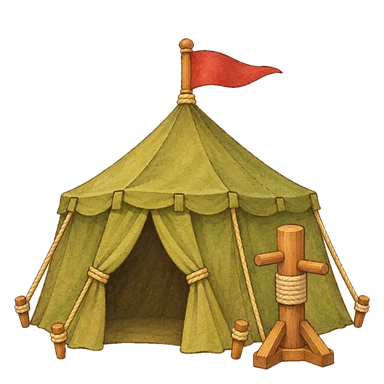
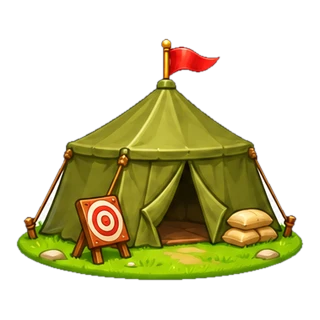
전투 화면 기호와 주둔지 건물 5채를 상점과 같은 그림체로
- 기호: 단계 깃발 · 메뉴 · 임무 · 도감 · 나가기 · 공격 · 사거리 (img/ic)
- 건물: img/bld_*.webp 다시 그림

Claude-Session: https://claude.ai/code/session_017VP8BVWohypkUvNmKY1rp7

diff --git a/www/js/icons.js b/www/js/icons.js
@@ -33,8 +33,9 @@ export const ICON = {
   shop: '<svg viewBox="0 0 24 24"><path d="M4 9l1.5-5h13L20 9M5 9v11h14V9M4 9h16" fill="none" stroke="currentColor" stroke-width="2.3" stroke-linejoin="round"/><path d="M10 20v-6h4v6" fill="none" stroke="currentColor" stroke-width="2.3"/></svg>',
 };
 // 재화 기호는 그림 파일(img/ic/<이름>.webp, 상점과 같은 그림체)로 보여 준다. 그림을 못 읽으면 위의 SVG로 돌아간다
-const PIC = ['gem', 'coin', 'box', 'ticket', 'bolt', 'medal'];
-const body = name => (PIC.includes(name) ? `<img src="img/ic/${name}.webp" alt="" onerror="this.outerHTML=window.__icSvg('${name}')">` : ICON[name] || '');
+const PIC = { gem: 'gem', coin: 'coin', box: 'box', ticket: 'ticket', bolt: 'bolt', medal: 'medal',      // 재화
+  flag: 'flag', menu: 'menu', list: 'mission', book: 'book', exit: 'exit', sword: 'sword', ring: 'target', help: 'help', sound: 'sound' };      // 전투 화면 · 메뉴 (기호 이름 → 그림 파일)
+const body = name => (PIC[name] ? `<img src="img/ic/${PIC[name]}.webp" alt="" onerror="this.outerHTML=window.__icSvg('${name}')">` : ICON[name] || '');
 if (typeof window !== 'undefined') window.__icSvg = n => ICON[n] || '';
 export const ic = (name, cls = '') => `<span class="ic ${cls}">${body(name)}</span>`;
 export function fillIcons(root = document) { root.querySelectorAll('[data-ic]').forEach(e => { e.classList.add('ic'); e.innerHTML = body(e.dataset.ic); }); }

diff --git a/www/style.css b/www/style.css
@@ -374,4 +374,6 @@ img.u { filter: var(--skin, none); }
 .ltop .hbtn .pic { width: 3rem; height: 3rem; } .ltop .hbtn.off { background: var(--paper); }
 .lcoop .pic { width: 4.6rem; height: 4.6rem; } .subbar .pic { width: 2.6rem; height: 2.6rem; margin-right: 0.2rem; }
 @media (max-height: 480px) { .nav5 .pic { width: 2.8rem; height: 2.8rem; } .nav5 button.on .pic { width: 3.2rem; height: 3.2rem; margin-top: -0.4rem; } }
+/* 전투 화면의 그림 기호: 단계 깃발 · 메뉴 · 임무 버튼은 조금 크게 */
+.area > .ic { font-size: 2.8rem; } #b-menu .ic { font-size: 2.5rem; } #actions .board .ic { font-size: 2rem; } .wide .ic { font-size: 2.4rem; }
 

diff --git a/art/icons/jobs.py b/art/icons/jobs.py
@@ -1,5 +1,5 @@
 """표창 아이콘 18종 · 재화 기호 · 대기실 버튼 그림 (E 광택 캐주얼풍, 상점 그림과 같은 그림체). 한 장에 12개(4칸 × 3줄).
-사용: python3 art/icons/jobs.py && python3 tools/codex_art.py 2 99 art/icons/jobs.json  →  art/icons/raw/sheet_<cm|misc|ui>.png
+사용: python3 art/icons/jobs.py && python3 tools/codex_art.py 2 99 art/icons/jobs.json  →  art/icons/raw/sheet_<cm|misc|ui|battle>.png
 게임에 넣기: python3 art/icons/apply.py"""
 import json, os
 HERE = os.path.dirname(os.path.abspath(__file__))
@@ -28,7 +28,15 @@ UI = ("These are menu button icons for a cute animal army game. Row 1, left to r
       "(7) three face-down cards fanned out, with olive-green backs and a gold star on each back; (8) an orange megaphone speaker with three blue sound waves coming out. "
       "Row 3, left to right: (9) a small camouflage uniform jacket hanging on a wooden clothes hanger; (10) an open training manual book with a big green upward arrow rising from it; "
       "(11) a dark iron blacksmith anvil with a golden hammer above it and orange sparks; (12) an orange megaphone speaker with a red diagonal cross over it, no sound waves.")
-jobs = [{'file': 'art/icons/raw/sheet_ui.png', 'w': 1536, 'h': 1024, 'prompt': HEAD + UI},
+BATTLE = ("These are battle screen icons and small buildings for a cute animal army game. Row 1, left to right: (1) a red triangular flag on a golden pole; (2) a shiny golden gear cog; "
+          "(3) an open wooden door with a green arrow pointing out of it; (4) a round red button with a white cross mark on it. "
+          "Row 2, the first four of five small cute buildings, each seen from the front at a slight angle, each standing on a small round patch of grass: (5) an olive-green army training tent with a small red flag on top; "
+          "(6) a small brick blacksmith workshop with a smoking chimney and an anvil in front; (7) a headquarters house with white walls, a red tiled roof, a golden bell above the door and a green flag; "
+          "(8) a supply depot market stall with an olive canopy, wooden crates, barrels and sacks. "
+          "Row 3, left to right: (9) a tall steel radio tower with an antenna on top and a small blinking red light, standing on a small round patch of grass; (10) one silver sword with a golden hilt pointing up; "
+          "(11) a round red and white target with a crosshair; (12) a thick closed brown leather book with a golden star on the cover and a red bookmark.")
+jobs = [{'file': 'art/icons/raw/sheet_battle.png', 'w': 1536, 'h': 1024, 'prompt': HEAD + BATTLE},
+        {'file': 'art/icons/raw/sheet_ui.png', 'w': 1536, 'h': 1024, 'prompt': HEAD + UI},
         {'file': 'art/icons/raw/sheet_cm.png', 'w': 1536, 'h': 1024, 'prompt': HEAD + CM},
         {'file': 'art/icons/raw/sheet_misc.png', 'w': 1536, 'h': 1024, 'prompt': HEAD + MISC}]
 json.dump(jobs, open(HERE + '/jobs.json', 'w'), ensure_ascii=False, indent=1); print(len(jobs), '장')

diff --git a/art/icons/apply.py b/art/icons/apply.py
@@ -1,4 +1,4 @@
-"""art/icons/raw 의 시트 3장을 잘라 게임에 넣는다: 표창 아이콘 18종 → www/img/cm, 재화 기호 · 대기실 버튼 · 하단 탭 · 메뉴 그림 → www/img/ic.
+"""art/icons/raw 의 시트 4장을 잘라 게임에 넣는다: 표창 아이콘 18종 → www/img/cm, 재화 기호 · 대기실 버튼 · 하단 탭 · 메뉴 · 전투 화면 기호 → www/img/ic, 주둔지 건물 → www/img/bld_*.webp.
 사용: python3 art/icons/apply.py"""
 import os, subprocess, sys
 from PIL import Image
@@ -7,6 +7,8 @@ cut('art/icons/raw/sheet_cm.png', 'www/img/cm', 'summon,luck,tile,depot,supply,e
 cut('art/icons/raw/sheet_misc.png', 'www/img/cm', 'b_army,b_navy,b_marine,b_sf,b_air,b_police,-,-,-,-,-,-', '192')
 cut('art/icons/raw/sheet_misc.png', 'www/img/ic', '-,-,-,-,-,-,gem,coin,box,mission,trophy,record', '160')
 cut('art/icons/raw/sheet_ui.png', 'www/img/ic', 'help,coop,nav_shop,nav_unit,nav_battle,nav_cm,nav_draw,sound,skin,mastery,upgrade,mute', '192')
+cut('art/icons/raw/sheet_battle.png', 'www/img/ic', 'flag,menu,exit,close,-,-,-,-,-,sword,target,book', '192')
+cut('art/icons/raw/sheet_battle.png', 'www/img', '-,-,-,-,bld_camp,bld_up,bld_summon,bld_pick,bld_elite,-,-,-', '320')      # 주둔지 건물 5채
 for src, dst in [('ticket1', 'ticket'), ('bolt1', 'bolt'), ('medal', 'medal')]:      # 상점 그림에서 가져오는 기호
     Image.open(os.path.join(ROOT, 'www/img/shop', src + '.webp')).resize((160, 160), Image.LANCZOS).save(os.path.join(ROOT, 'www/img/ic', dst + '.webp'), quality=90)
 print('끝')

diff --git a/docs/HANDOFF.md b/docs/HANDOFF.md
@@ -8,6 +8,14 @@
 > **게임 이름은 "털뭉치수비대"(붙여 쓴다)**, 아이콘은 시안 C(물개·강아지·참수리) — 2026-11-20 사용자 결정. 저장소 이름·앱 ID(`com.steey.soldierdefense`)·서버 이름·Notion 문서 제목은 옛 이름 그대로 둔다.
 > **세계관**: 털뭉치 마을을 동물 병사들이 고철 군단(기계)으로부터 지킨다. **군별 이름은 육군·해군·해병대·특공대·공군·의경 그대로 쓴다**(사용자: "땅개 부대·백호 부대 말고 육군·특공대 이렇게"). 캐릭터 동물은 육군 = 땅개(강아지)·해군 = 물개·해병대 = 악어·특공대 = 백호·공군 = 보라매·의경 = 참수리(`data.js`의 `animal`, 그림용). **계급과 병과 이름도 그대로 둔다**(사용자 지시). 이름 대응표는 `docs/DESIGN.md` 맨 아래.
 
+## 2026-11-20 — 전투 화면 기호와 주둔지 건물 5채도 E풍 그림으로
+**경위**: 사용자 — "전투 화면 안에도 바꿔 줘".
+**직접 한 작업**: Codex 1장(`art/icons/raw/sheet_battle.png`) → `python3 art/icons/apply.py`.
+- **기호**(`www/img/ic/`: flag · menu · exit · sword · target · book, close는 아직 안 씀): 위쪽 단계 깃발, 메뉴(톱니), 임무 버튼(점검표), 일시정지 화면의 임무·조합 도감·게임 방법·소리·저장하고 나가기, 유닛 카드의 공격·사거리·재화 표시. `icons.js`의 `PIC`가 기호 이름 → 그림 파일을 잇는다(못 읽으면 예전 SVG).
+- **주둔지 건물 5채**(`www/img/bld_*.webp`, 320px): 훈련소 천막 · 병기창 대장간 · 본부 · 보급창 · 통신탑을 E풍으로 다시 그려 덮어썼다(예전 수채 그림은 git 기록에 있다).
+**검사**: 두 화면 크기에서 위쪽 기호 4 · 임무 버튼 1 · 건물 5 · 유닛 카드 기호 · 일시정지 화면 기호가 모두 뜨고 못 읽은 그림 0, 콘솔 오류 0. `npm test` 통과, 화면 검사 문제 기기 0(카드가 전장을 가리지 않는 것 포함).
+**남은 한계**: 실제 기기 미확인. 전장 안(발판·길·유닛·적·특수 발판 표시·총알)은 캔버스에 그리는 예전 수채 그림체 그대로라 건물·기호와 그림체가 다르다 — 유닛을 동물로 다시 그릴 때 전장 그림체도 함께 정해야 한다. 배속(×1)·닫기(×)·재생(▶)·조합 미리보기의 +·→ 는 글자/단색 기호 그대로다.
+
 ## 2026-11-20 — 게임 방법 · 2인 협동 · 하단 탭 · 소리 · 부대 하위 메뉴도 E풍 그림으로
 **경위**: 사용자 — "게임 방법, 2인 협동, 하단 탭도 E풍으로 맞춰 줘".
 **직접 한 작업**: Codex 1장(`art/icons/raw/sheet_ui.png`, 12개) → `python3 art/icons/apply.py` → `www/img/ic/`에 help · coop · nav_shop · nav_unit · nav_battle · nav_cm · nav_draw · sound · mute · skin · mastery · upgrade. 쓰는 곳: 대기실 게임 방법 버튼 · 2인 협동 버튼 · 소리 버튼(켜짐/꺼짐 그림이 다르다) · 하단 탭 5개(켜진 탭은 색 그대로 크게, 꺼진 탭은 흐린 회색) · 부대 하위 메뉴 3개. `main.js`의 `pic(이름, 대신할 기호)`가 그림이 없으면 기호를 보여 준다.
